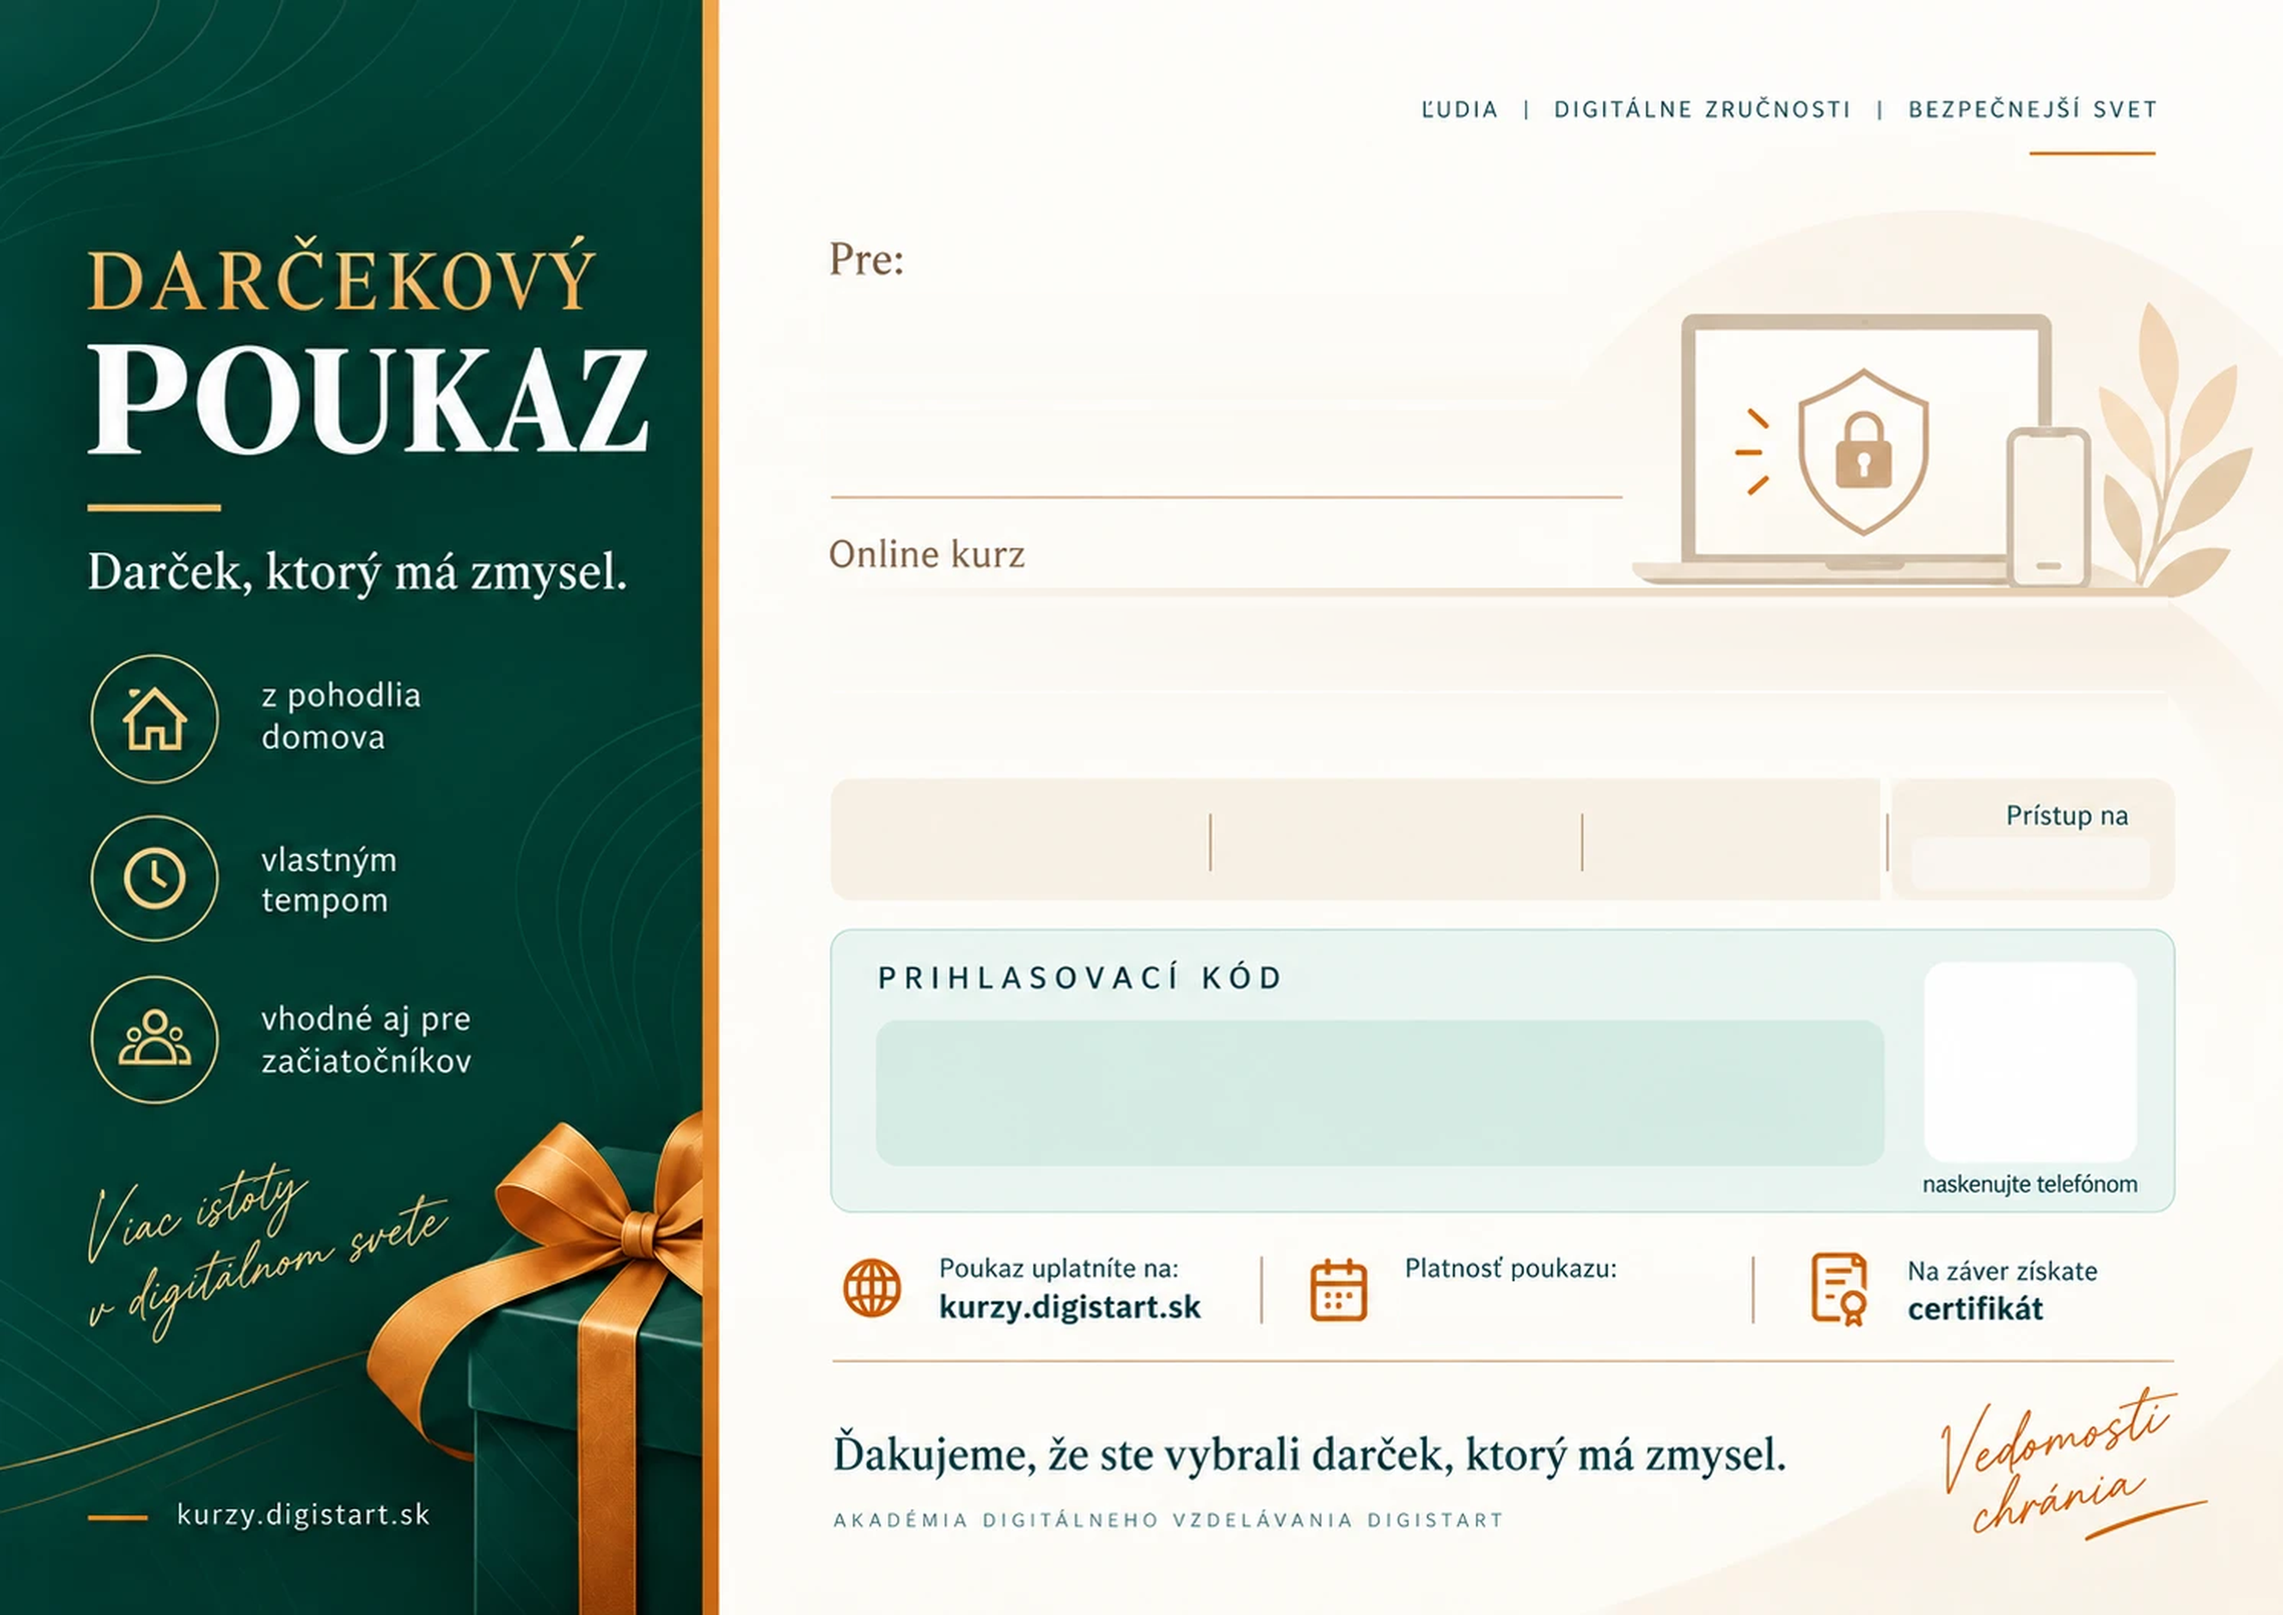
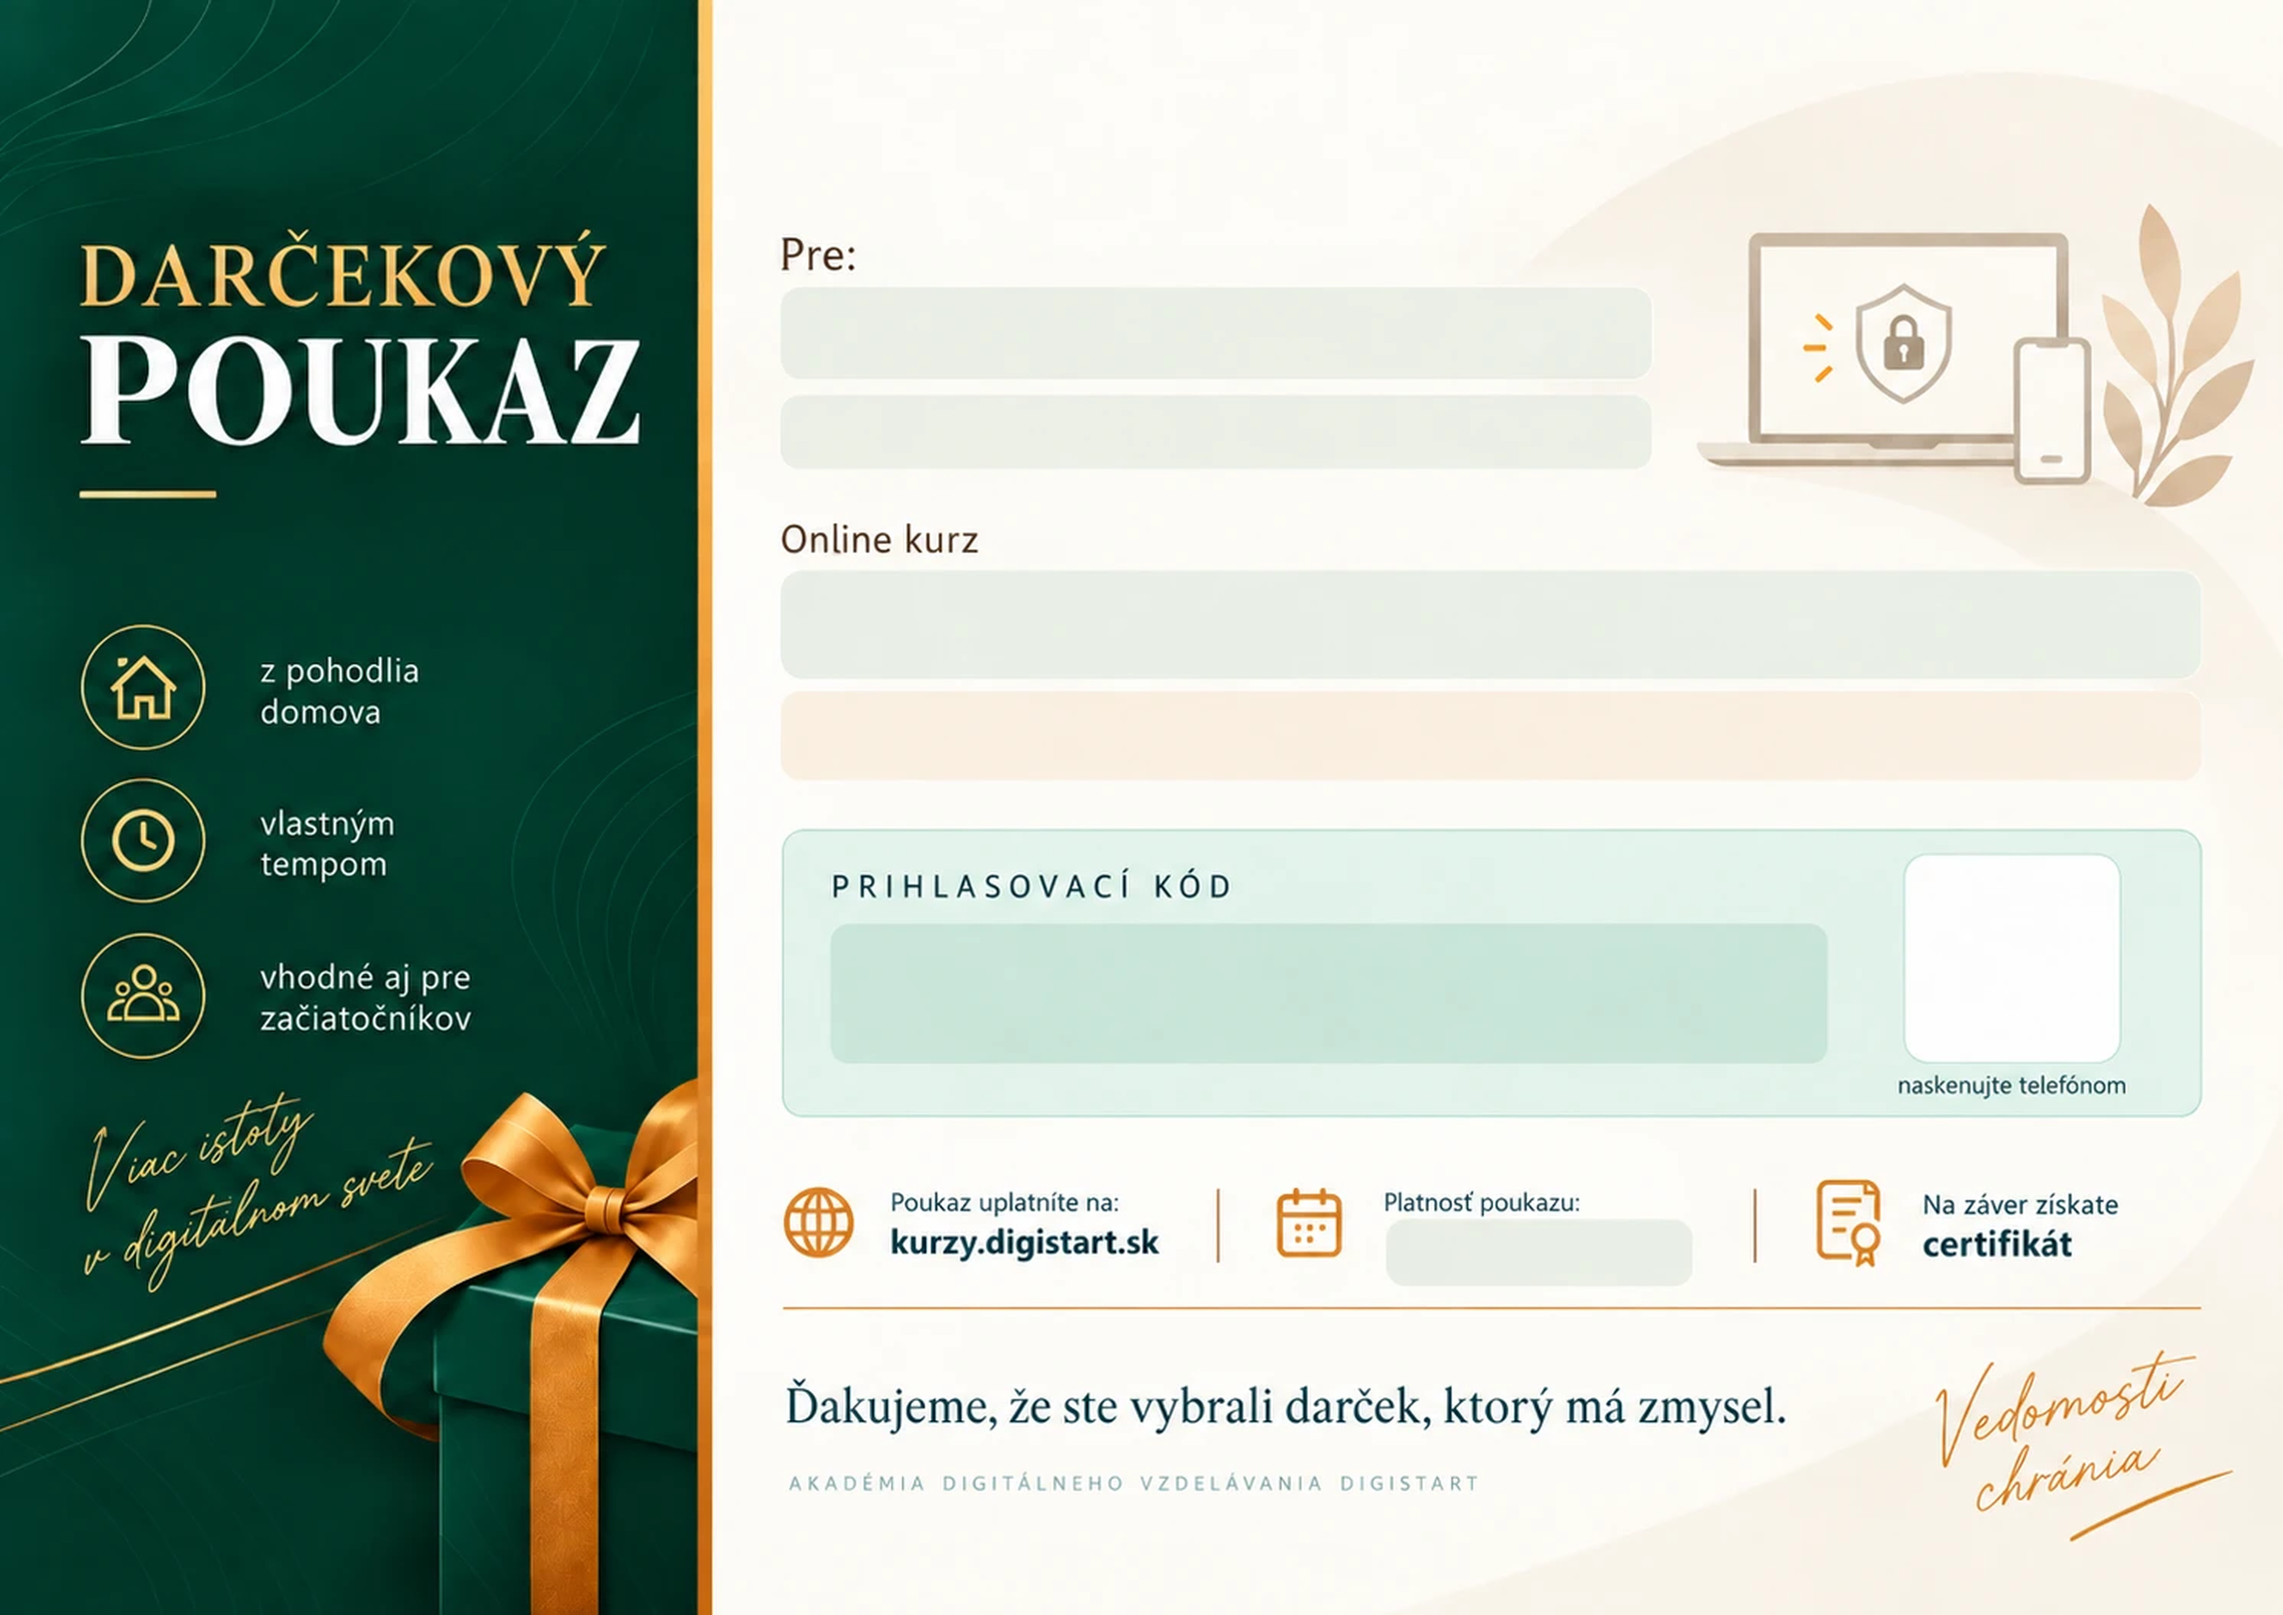
Nová šablóna darčekového poukazu
Šablóna má inú stavbu: pás s parametrami zmizol a polia na meno, odkaz,
názov a podnadpis kurzu sú teraz tónované panely, ktoré patria k návrhu —
preto sa na rozdiel od predchádzajúcej šablóny nezahládzajú.

Súradnice sú premerané z novej predlohy. Kreslenie pásu s parametrami,
ikonky k nemu aj prepočet platnosti na slová (validityWords) sú preč,
už nemajú kde byť.

diff --git a/functions/index.js b/functions/index.js
@@ -2116,24 +2116,6 @@ const V_ORANGE = "#c9651c";
 const V_MUTED = "#8a8474";
 const V_LINE = "#ded6c6";
 
-/* --- ikonky v páse s parametrami (v šablóne zámerne nie sú) --- */
-function vIcoMonitor(doc, x, y, s, c) {
-  doc.lineWidth(s * 0.1).strokeColor(c);
-  doc.roundedRect(x - s * 0.5, y - s * 0.4, s, s * 0.68, s * 0.08).stroke();
-  doc.moveTo(x - s * 0.24, y + s * 0.42).lineTo(x + s * 0.24, y + s * 0.42).stroke();
-}
-function vIcoClock(doc, x, y, s, c) {
-  doc.lineWidth(s * 0.09).strokeColor(c);
-  doc.circle(x, y, s * 0.5).stroke();
-  doc.moveTo(x, y - s * 0.28).lineTo(x, y).lineTo(x + s * 0.22, y + s * 0.1).stroke();
-}
-function vIcoPerson(doc, x, y, s, c) {
-  doc.lineWidth(s * 0.1).strokeColor(c);
-  doc.circle(x, y - s * 0.22, s * 0.2).stroke();
-  doc.moveTo(x - s * 0.36, y + s * 0.44)
-    .bezierCurveTo(x - s * 0.34, y + s * 0.02, x + s * 0.34, y + s * 0.02, x + s * 0.36, y + s * 0.44).stroke();
-}
-
 // QR sa kreslí ako vektor, nie ako vložený obrázok — je ostrejší pri tlači
 // a nezávisí od toho, či čítačka PDF zvládne dekódovať PNG vo vnútri.
 function vDrawQr(doc, text, x, y, size, color) {
@@ -2163,29 +2145,12 @@ function vFitSize(doc, font, text, maxWidth, size) {
   return s;
 }
 
-// Z počtu dní urobí text, ktorý sa dá prečítať ("90 dní" -> "3 mesiace").
-function validityWords(days) {
-  const d = Number(days) || 0;
-  if (d <= 0) return "bez obmedzenia";
-  if (d % 365 === 0) return d / 365 === 1 ? "1 rok" : (d / 365) + " roky";
-  const months = Math.round(d / 30);
-  if (months >= 1 && Math.abs(months * 30 - d) <= 2) {
-    if (months === 1) return "1 mesiac";
-    if (months <= 4) return months + " mesiace";
-    return months + " mesiacov";
-  }
-  return d + " " + dayWord(d);
-}
-
-// "3 mesiace" znie v riadku s trvaním kurzu lepšie slovom.
-const VOUCHER_SLOVOM = { "1 mesiac": "jeden mesiac", "2 mesiace": "dva mesiace", "3 mesiace": "tri mesiace", "4 mesiace": "štyri mesiace" };
-
 function drawGiftVoucherPdf(doc, { s, order, code, codeCreatedAt, validityDays }) {
-  const W = doc.page.width, H = doc.page.height;
+  const W = doc.page.width;
   const K = W / VOUCHER_SRC_W;
   const px = (v) => v * K;
 
-  doc.image(VOUCHER_TEMPLATE, 0, 0, { width: W, height: H });
+  doc.image(VOUCHER_TEMPLATE, 0, 0, { width: W, height: doc.page.height });
 
   // Tvrdé stropy na dĺžku: pole na meno aj na odkaz má na poukaze pevné
   // miesto a pri veľmi dlhom texte by sa písmo zmenšilo do nečitateľna.
@@ -2195,8 +2160,6 @@ function drawGiftVoucherPdf(doc, { s, order, code, codeCreatedAt, validityDays }
   const subtitle = order.workshopSubtitleSnapshot || "";
 
   const dni = Number(validityDays) || 0;
-  const platnost = validityWords(dni);
-  const platnostSlovom = VOUCHER_SLOVOM[platnost] || platnost;
   const zaklad = codeCreatedAt instanceof Date ? codeCreatedAt : new Date();
   const platnostDo = dni > 0
     ? new Date(zaklad.getTime() + dni * 24 * 3600 * 1000).toLocaleDateString("sk-SK")
@@ -2206,89 +2169,65 @@ function drawGiftVoucherPdf(doc, { s, order, code, codeCreatedAt, validityDays }
   // PDFKit kreslí text od hornej hrany riadku, nie od základne.
   const zvislyStred = (size, yStred) => yStred - size * 0.72;
 
-  /* --- logo --- */
-  doc.image(VOUCHER_LOGO, px(544), px(34), { height: px(58) });
+  /* --- logo do voľného miesta nad "Pre:" --- */
+  doc.image(VOUCHER_LOGO, px(512), px(28), { height: px(62) });
 
-  /* --- meno obdarovaného --- */
+  /* --- meno obdarovaného (pole 510–1078, 188–246) --- */
   if (recipient) {
-    const size = vFitSize(doc, FONT_BOLD, recipient, px(470), px(46));
+    const size = vFitSize(doc, FONT_BOLD, recipient, px(534), px(40));
     doc.fontSize(size).fillColor(V_INK)
-      .text(recipient, px(546), zvislyStred(size, px(228)), { lineBreak: false });
-  } else {
-    // Darca meno nezadal — necháme mu čiaru na dopísanie rukou.
-    doc.lineWidth(px(1.6)).strokeColor(V_LINE).dash(px(5), { space: px(5) })
-      .moveTo(px(546), px(248)).lineTo(px(1010), px(248)).stroke().undash();
+      .text(recipient, px(528), zvislyStred(size, px(217)), { lineBreak: false });
   }
 
-  /* --- osobný odkaz darcu --- */
-  // Odkaz má medzi menom a vodorovnou linkou (y = 325) miesto na dva
-  // riadky. Písmo sa hľadá zhora nadol tak, aby sa doň text zmestil —
-  // jednoriadkový odkaz tak zostane pekne veľký a dlhší sa primerane
-  // zmenší, namiesto aby spadol na najmenšiu možnú veľkosť.
+  /* --- osobný odkaz darcu (pole 510–1078, 258–305) ---
+     Veľkosť sa hľadá zhora nadol, aby krátky odkaz zostal pekne veľký
+     a dlhší sa zmenšil len primerane, namiesto skoku na najmenšiu. */
   if (message) {
     const text = "„" + message + "“";
-    const sirka = px(520), vyska = px(52);
+    const sirka = px(534), vyska = px(42);
     doc.font(FONT_REGULAR);
-    let size = px(19);
-    while (size > px(12.5)) {
+    let size = px(18);
+    while (size > px(11.5)) {
       doc.fontSize(size);
-      if (doc.heightOfString(text, { width: sirka, lineGap: px(2) }) <= vyska) break;
-      size -= px(0.6);
+      if (doc.heightOfString(text, { width: sirka, lineGap: px(1.5) }) <= vyska) break;
+      size -= px(0.5);
     }
-    doc.fontSize(size).fillColor(V_MUTED).text(text, px(546), px(266), {
-      width: sirka, height: vyska, lineGap: px(2), ellipsis: true,
+    doc.fontSize(size).fillColor(V_MUTED).text(text, px(528), px(263), {
+      width: sirka, height: vyska, lineGap: px(1.5), ellipsis: true,
     });
   }
 
-  /* --- názov a podnadpis kurzu --- */
+  /* --- názov kurzu (pole 510–1436, 373–442) --- */
   {
-    const size = vFitSize(doc, FONT_BOLD, workshop, px(860), px(44));
+    const size = vFitSize(doc, FONT_BOLD, workshop, px(890), px(42));
     doc.fontSize(size).fillColor(V_TEAL)
-      .text(workshop, px(546), zvislyStred(size, px(419)), { width: px(866), lineBreak: false });
+      .text(workshop, px(528), zvislyStred(size, px(407)), { width: px(896), lineBreak: false });
   }
+
+  /* --- podnadpis kurzu (pole 511–1436, 452–508) --- */
   if (subtitle) {
-    const size = vFitSize(doc, FONT_BOLD, subtitle, px(860), px(24));
+    const size = vFitSize(doc, FONT_BOLD, subtitle, px(890), px(26));
     doc.fontSize(size).fillColor(V_ORANGE)
-      .text(subtitle, px(546), zvislyStred(size, px(475)), { width: px(866), lineBreak: false });
+      .text(subtitle, px(528), zvislyStred(size, px(480)), { width: px(896), lineBreak: false });
   }
 
-  /* --- pás s parametrami: tri sloty, obsah vystredený v každom --- */
-  const sy = px(548);
-  [[vIcoMonitor, "Online", 543, 787],
-   [vIcoClock, "6 hodín až " + platnostSlovom, 793, 1030],
-   [vIcoPerson, "vlastným tempom", 1035, 1227]].forEach(([ico, text, x0, x1]) => {
-    const size = vFitSize(doc, FONT_REGULAR, text, px(x1 - x0 - 40), px(16.5));
-    doc.fontSize(size);
-    const sirkaIkony = px(30);
-    const zaciatok = px((x0 + x1) / 2) - (sirkaIkony + doc.widthOfString(text)) / 2;
-    ico(doc, zaciatok + px(11), sy, px(22), V_TEAL);
-    doc.fillColor(V_INK).text(text, zaciatok + sirkaIkony, zvislyStred(size, sy), { lineBreak: false });
-  });
-
-  /* --- hodnota v políčku "Prístup na" --- */
-  {
-    const size = vFitSize(doc, FONT_BOLD, platnost, px(180), px(19));
-    doc.fontSize(size).fillColor(V_INK)
-      .text(platnost, px(1230), zvislyStred(size, px(566)), { width: px(190), align: "center", lineBreak: false });
-  }
-
-  /* --- prihlasovací kód --- */
+  /* --- prihlasovací kód (vnútorné pole 543–1192, 604–693) --- */
   {
     const text = String(code).split("").join("   ");
-    const size = vFitSize(doc, FONT_BOLD, text, px(640), px(52));
+    const size = vFitSize(doc, FONT_BOLD, text, px(600), px(58));
     doc.fontSize(size).fillColor(V_INK)
-      .text(text, px(543), zvislyStred(size, px(703)), { width: px(687), align: "center", lineBreak: false });
+      .text(text, px(543), zvislyStred(size, px(648)), { width: px(650), align: "center", lineBreak: false });
   }
 
   /* --- QR kód: vedie na prihlásenie aj s predvyplneným kódom --- */
-  vDrawQr(doc, loginUrl, px(1268), px(628), px(130), V_INK);
+  vDrawQr(doc, loginUrl, px(1254), px(567), px(118), V_INK);
 
-  /* --- dátum platnosti --- */
+  /* --- dátum platnosti (pole 905–1104, 797–839) --- */
   {
     const text = platnostDo ? "do " + platnostDo : "bez obmedzenia";
-    const size = vFitSize(doc, FONT_BOLD, text, px(200), px(21));
+    const size = vFitSize(doc, FONT_BOLD, text, px(184), px(21));
     doc.fontSize(size).fillColor(V_INK)
-      .text(text, px(920), zvislyStred(size, px(856)), { lineBreak: false });
+      .text(text, px(905), zvislyStred(size, px(818)), { width: px(199), align: "center", lineBreak: false });
   }
 }
 
